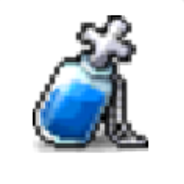
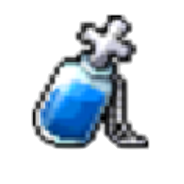
파란포션 추가

diff --git a/play_mode.py b/play_mode.py
@@ -57,7 +57,8 @@ inv_item_images = {}
 
 INV_ICON_SCALES = {
     '주황버섯의 갓': 0.1,
-    '빨간포션' : 0.28
+    '빨간포션' : 0.28,
+    '파란포션' : 0.2
     # 나중에 아이템 더 생기면 여기 계속 추가하면 됨
 }
 DEFAULT_INV_ICON_SCALE = 0.1
@@ -72,12 +73,13 @@ last_enchant_msg = ""
 last_enchant_timer = 0.0
 
 DROP_TABLE = [
-    ('10원',   0.3),
+    ('10원',   0.25),
     ('100원', 0.2),
     ('1000원',    0.1),
     ('5000원',    0.05),
-    ('주황버섯의 갓',   0.25),
-    ('빨간포션', 0.1)
+    ('주황버섯의 갓',   0.2),
+    ('빨간포션', 0.1),
+    ('파란포션', 0.1),
 ]
 
 MAPS = {

diff --git a/item.py b/item.py
@@ -12,6 +12,7 @@ ITEM_IMAGES = {
     '5000원':      '사진수집/etc/다발.png',
     '주황버섯의 갓': '사진수집/etc/주황버섯의 갓.png',
     '빨간포션' :    '사진수집/etc/빨간물약.png',
+    '파란포션' :    '사진수집/etc/파란물약.png',
 }
 
 
